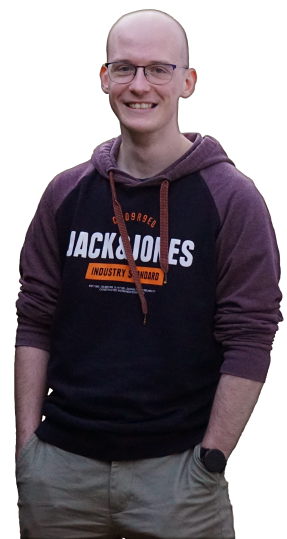
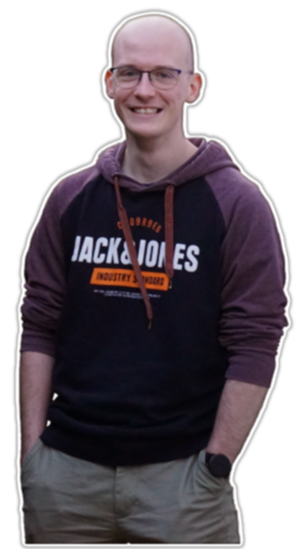
updates

diff --git a/src/assets/icons/icons.jsx b/src/assets/icons/icons.jsx
@@ -8,32 +8,32 @@ export const heroLogoIcon = <svg width="18" height="18" viewBox="0 0 18 18" fill
 </svg>;
 
 export const heroLineIcon = <svg width="2" height="15" viewBox="0 0 2 15" fill="none" xmlns="http://www.w3.org/2000/svg">
-    <rect x="1" width="15" height="1" rx="1" transform="rotate(90 2 0)" fill="#393939" />
+    <rect x="1" width="15" height="1" rx="1" transform="rotate(90 2 0)" fill="#FFFFFF" />
 </svg>;
 export const hoverIcon = <svg width="22" height="20" viewBox="0 0 22 20" fill="none" xmlns="http://www.w3.org/2000/svg">
     <path d="M2.75 0C2.02065 0 1.32118 0.292657 0.805456 0.81359C0.289731 1.33452 0 2.04106 0 2.77777V12.7777C0 13.5144 0.289731 14.221 0.805456 14.7419C1.32118 15.2628 2.02065 15.5555 2.75 15.5555H7.7V7.49998C7.70003 7.14065 7.79863 6.78835 7.98486 6.48219C8.17109 6.17603 8.43767 5.92799 8.755 5.76559C9.07234 5.60319 9.42801 5.53279 9.78256 5.5622C10.1371 5.59161 10.4766 5.71968 10.7635 5.9322L19.0135 14.2655C19.426 14.5711 19.69 15.02 19.7725 15.5055C20.3996 15.3829 20.965 15.0436 21.3714 14.5459C21.7779 14.0481 22.0001 13.423 22 12.7777V2.77777C22 2.04106 21.7103 1.33452 21.1945 0.81359C20.6788 0.292657 19.9793 0 19.25 0H2.75ZM10.208 6.91109C10.0926 6.79469 9.94569 6.71544 9.78575 6.68335C9.62581 6.65126 9.46004 6.66776 9.30938 6.73077C9.15872 6.79378 9.02993 6.90048 8.93927 7.03739C8.84861 7.17429 8.80014 7.33527 8.8 7.49998V19.1666C8.79999 19.3444 8.8563 19.5176 8.96069 19.6608C9.06509 19.804 9.2121 19.9097 9.38024 19.9625C9.54837 20.0152 9.7288 20.0123 9.89515 19.9541C10.0615 19.8958 10.205 19.7854 10.3048 19.6388L13.0185 15.6522L17.7045 16.6488C17.8784 16.6858 18.0595 16.665 18.2208 16.5896C18.3821 16.5142 18.515 16.3882 18.5997 16.2304C18.6844 16.0726 18.7163 15.8913 18.6908 15.7137C18.6653 15.536 18.5836 15.3714 18.458 15.2444L10.208 6.91109Z" fill="#373737" />
 </svg>;
 
 export const heroHeadsetIcon = <svg width="21" height="20" viewBox="0 0 21 20" fill="none" xmlns="http://www.w3.org/2000/svg">
-    <path d="M7 20H2.33333C1.69167 20 1.14217 19.7826 0.684833 19.3478C0.228278 18.9122 0 18.3889 0 17.7778V10C0 8.61111 0.276889 7.31 0.830667 6.09667C1.38522 4.88407 2.13422 3.82852 3.07767 2.93C4.02033 2.03222 5.12867 1.31926 6.40267 0.791111C7.67589 0.263704 9.04167 0 10.5 0C11.9583 0 13.3245 0.263704 14.5985 0.791111C15.8717 1.31926 16.9801 2.03222 17.9235 2.93C18.8662 3.82852 19.6148 4.88407 20.1693 6.09667C20.7231 7.31 21 8.61111 21 10V17.7778C21 18.3889 20.7717 18.9122 20.3152 19.3478C19.8578 19.7826 19.3083 20 18.6667 20H14V11.1111H18.6667V10C18.6667 7.83333 17.8741 5.99519 16.289 4.48556C14.7047 2.97667 12.775 2.22222 10.5 2.22222C8.225 2.22222 6.29533 2.97667 4.711 4.48556C3.12589 5.99519 2.33333 7.83333 2.33333 10V11.1111H7V20Z" fill="#363636" />
+    <path d="M7 20H2.33333C1.69167 20 1.14217 19.7826 0.684833 19.3478C0.228278 18.9122 0 18.3889 0 17.7778V10C0 8.61111 0.276889 7.31 0.830667 6.09667C1.38522 4.88407 2.13422 3.82852 3.07767 2.93C4.02033 2.03222 5.12867 1.31926 6.40267 0.791111C7.67589 0.263704 9.04167 0 10.5 0C11.9583 0 13.3245 0.263704 14.5985 0.791111C15.8717 1.31926 16.9801 2.03222 17.9235 2.93C18.8662 3.82852 19.6148 4.88407 20.1693 6.09667C20.7231 7.31 21 8.61111 21 10V17.7778C21 18.3889 20.7717 18.9122 20.3152 19.3478C19.8578 19.7826 19.3083 20 18.6667 20H14V11.1111H18.6667V10C18.6667 7.83333 17.8741 5.99519 16.289 4.48556C14.7047 2.97667 12.775 2.22222 10.5 2.22222C8.225 2.22222 6.29533 2.97667 4.711 4.48556C3.12589 5.99519 2.33333 7.83333 2.33333 10V11.1111H7V20Z" fill="#FFFFFF" />
 </svg>;
 export const heroLaptopIcon = <svg width="26" height="17" viewBox="0 0 26 17" fill="none" xmlns="http://www.w3.org/2000/svg">
-    <path d="M0 17V15H2.16667V0H23.8333V15H26V17H0ZM10.8333 15H15.1667V14H10.8333V15ZM4.33333 12H21.6667V2H4.33333V12Z" fill="#363636" />
+    <path d="M0 17V15H2.16667V0H23.8333V15H26V17H0ZM10.8333 15H15.1667V14H10.8333V15ZM4.33333 12H21.6667V2H4.33333V12Z" fill="#FFFFFF" />
 </svg>;
 
 export const heroCodeIcon = <svg width="21" height="17" viewBox="0 0 21 17" fill="none" xmlns="http://www.w3.org/2000/svg">
-    <path d="M6.79583 8.5L8.51667 7.10694C8.75 6.91806 8.86667 6.69768 8.86667 6.44583C8.86667 6.19398 8.75 5.97361 8.51667 5.78472C8.28333 5.59583 8.00644 5.50139 7.686 5.50139C7.36478 5.50139 7.0875 5.59583 6.85417 5.78472L4.31667 7.83889C4.2 7.93333 4.11756 8.03565 4.06933 8.14583C4.02033 8.25602 3.99583 8.37407 3.99583 8.5C3.99583 8.62593 4.02033 8.74398 4.06933 8.85417C4.11756 8.96435 4.2 9.06667 4.31667 9.16111L6.85417 11.2153C7.0875 11.4042 7.36478 11.4986 7.686 11.4986C8.00644 11.4986 8.28333 11.4042 8.51667 11.2153C8.75 11.0264 8.86667 10.806 8.86667 10.5542C8.86667 10.3023 8.75 10.0819 8.51667 9.89306L6.79583 8.5ZM14.2042 8.5L12.4833 9.89306C12.25 10.0819 12.1333 10.3023 12.1333 10.5542C12.1333 10.806 12.25 11.0264 12.4833 11.2153C12.7167 11.4042 12.9939 11.4986 13.3152 11.4986C13.6356 11.4986 13.9125 11.4042 14.1458 11.2153L16.6833 9.16111C16.8 9.06667 16.8824 8.96435 16.9307 8.85417C16.9797 8.74398 17.0042 8.62593 17.0042 8.5C17.0042 8.37407 16.9797 8.25602 16.9307 8.14583C16.8824 8.03565 16.8 7.93333 16.6833 7.83889L14.1458 5.78472C14.0292 5.69028 13.8981 5.61944 13.7527 5.57222C13.6064 5.525 13.4606 5.50139 13.3152 5.50139C13.1689 5.50139 13.0231 5.525 12.8777 5.57222C12.7314 5.61944 12.6 5.69028 12.4833 5.78472C12.25 5.97361 12.1333 6.19398 12.1333 6.44583C12.1333 6.69768 12.25 6.91806 12.4833 7.10694L14.2042 8.5ZM2.33333 17C1.69167 17 1.14217 16.8152 0.684833 16.4456C0.228278 16.0754 0 15.6306 0 15.1111V1.88889C0 1.36944 0.228278 0.924611 0.684833 0.554389C1.14217 0.184796 1.69167 0 2.33333 0H18.6667C19.3083 0 19.8578 0.184796 20.3152 0.554389C20.7717 0.924611 21 1.36944 21 1.88889V15.1111C21 15.6306 20.7717 16.0754 20.3152 16.4456C19.8578 16.8152 19.3083 17 18.6667 17H2.33333ZM2.33333 15.1111H18.6667V1.88889H2.33333V15.1111Z" fill="#363636" />
+    <path d="M6.79583 8.5L8.51667 7.10694C8.75 6.91806 8.86667 6.69768 8.86667 6.44583C8.86667 6.19398 8.75 5.97361 8.51667 5.78472C8.28333 5.59583 8.00644 5.50139 7.686 5.50139C7.36478 5.50139 7.0875 5.59583 6.85417 5.78472L4.31667 7.83889C4.2 7.93333 4.11756 8.03565 4.06933 8.14583C4.02033 8.25602 3.99583 8.37407 3.99583 8.5C3.99583 8.62593 4.02033 8.74398 4.06933 8.85417C4.11756 8.96435 4.2 9.06667 4.31667 9.16111L6.85417 11.2153C7.0875 11.4042 7.36478 11.4986 7.686 11.4986C8.00644 11.4986 8.28333 11.4042 8.51667 11.2153C8.75 11.0264 8.86667 10.806 8.86667 10.5542C8.86667 10.3023 8.75 10.0819 8.51667 9.89306L6.79583 8.5ZM14.2042 8.5L12.4833 9.89306C12.25 10.0819 12.1333 10.3023 12.1333 10.5542C12.1333 10.806 12.25 11.0264 12.4833 11.2153C12.7167 11.4042 12.9939 11.4986 13.3152 11.4986C13.6356 11.4986 13.9125 11.4042 14.1458 11.2153L16.6833 9.16111C16.8 9.06667 16.8824 8.96435 16.9307 8.85417C16.9797 8.74398 17.0042 8.62593 17.0042 8.5C17.0042 8.37407 16.9797 8.25602 16.9307 8.14583C16.8824 8.03565 16.8 7.93333 16.6833 7.83889L14.1458 5.78472C14.0292 5.69028 13.8981 5.61944 13.7527 5.57222C13.6064 5.525 13.4606 5.50139 13.3152 5.50139C13.1689 5.50139 13.0231 5.525 12.8777 5.57222C12.7314 5.61944 12.6 5.69028 12.4833 5.78472C12.25 5.97361 12.1333 6.19398 12.1333 6.44583C12.1333 6.69768 12.25 6.91806 12.4833 7.10694L14.2042 8.5ZM2.33333 17C1.69167 17 1.14217 16.8152 0.684833 16.4456C0.228278 16.0754 0 15.6306 0 15.1111V1.88889C0 1.36944 0.228278 0.924611 0.684833 0.554389C1.14217 0.184796 1.69167 0 2.33333 0H18.6667C19.3083 0 19.8578 0.184796 20.3152 0.554389C20.7717 0.924611 21 1.36944 21 1.88889V15.1111C21 15.6306 20.7717 16.0754 20.3152 16.4456C19.8578 16.8152 19.3083 17 18.6667 17H2.33333ZM2.33333 15.1111H18.6667V1.88889H2.33333V15.1111Z" fill="#FFFFFF" />
 </svg>;
 
 export const heroWeightIcon = <svg width="22" height="11" viewBox="0 0 22 11" fill="none" xmlns="http://www.w3.org/2000/svg">
-    <path d="M22 4.71429V6.28571H20.4286V9.42857H18.8571V11H16.5V6.28571H5.5V11H3.14286V9.42857H1.57143V6.28571H0V4.71429H1.57143V1.57143H3.14286V0H5.5V4.71429H16.5V0H18.8571V1.57143H20.4286V4.71429H22Z" fill="#363636" />
+    <path d="M22 4.71429V6.28571H20.4286V9.42857H18.8571V11H16.5V6.28571H5.5V11H3.14286V9.42857H1.57143V6.28571H0V4.71429H1.57143V1.57143H3.14286V0H5.5V4.71429H16.5V0H18.8571V1.57143H20.4286V4.71429H22Z" fill="#FFFFFF" />
 </svg>;
 
 export const heroGamingIcon = <svg width="19" height="25" viewBox="0 0 19 25" fill="none" xmlns="http://www.w3.org/2000/svg">
-    <path d="M15.95 1H2.15C1.51487 1 1 1.51487 1 2.15V22.85C1 23.4851 1.51487 24 2.15 24H15.95C16.5851 24 17.1 23.4851 17.1 22.85V2.15C17.1 1.51487 16.5851 1 15.95 1Z" stroke="#363636" strokeWidth="2" />
-    <path d="M4.44995 17.0996H9.04995M6.74995 19.3996V14.7996M4.44995 5.59961H13.65V11.3496H4.44995V5.59961Z" stroke="#363636" strokeWidth="2" strokeLinecap="round" strokeLinejoin="round" />
-    <path d="M13.075 18.8248C13.075 18.1897 12.5602 17.6748 11.925 17.6748C11.2899 17.6748 10.775 18.1897 10.775 18.8248C10.775 19.4599 11.2899 19.9748 11.925 19.9748C12.5602 19.9748 13.075 19.4599 13.075 18.8248Z" fill="#363636" />
-    <path d="M14.8 14.8004C14.8 14.1653 14.2851 13.6504 13.65 13.6504C13.0149 13.6504 12.5 14.1653 12.5 14.8004C12.5 15.4355 13.0149 15.9504 13.65 15.9504C14.2851 15.9504 14.8 15.4355 14.8 14.8004Z" fill="#363636" />
+    <path d="M15.95 1H2.15C1.51487 1 1 1.51487 1 2.15V22.85C1 23.4851 1.51487 24 2.15 24H15.95C16.5851 24 17.1 23.4851 17.1 22.85V2.15C17.1 1.51487 16.5851 1 15.95 1Z" stroke="#FFFFFF" strokeWidth="2" />
+    <path d="M4.44995 17.0996H9.04995M6.74995 19.3996V14.7996M4.44995 5.59961H13.65V11.3496H4.44995V5.59961Z" stroke="#FFFFFF" strokeWidth="2" strokeLinecap="round" strokeLinejoin="round" />
+    <path d="M13.075 18.8248C13.075 18.1897 12.5602 17.6748 11.925 17.6748C11.2899 17.6748 10.775 18.1897 10.775 18.8248C10.775 19.4599 11.2899 19.9748 11.925 19.9748C12.5602 19.9748 13.075 19.4599 13.075 18.8248Z" fill="#FFFFFF" />
+    <path d="M14.8 14.8004C14.8 14.1653 14.2851 13.6504 13.65 13.6504C13.0149 13.6504 12.5 14.1653 12.5 14.8004C12.5 15.4355 13.0149 15.9504 13.65 15.9504C14.2851 15.9504 14.8 15.4355 14.8 14.8004Z" fill="#FFFFFF" />
 </svg>;
 
 export const logoIcon = <svg width="14" height="14" viewBox="0 0 14 14" fill="none" xmlns="http://www.w3.org/2000/svg">

diff --git a/src/components/layouts/sections/home-hero.tsx b/src/components/layouts/sections/home-hero.tsx
@@ -81,15 +81,19 @@ export default function HomeHeroSection(props: HomeSectionProps) {
                 </Fade>
                 <Fade duration={appStore.fadeConditional(600)} delay={appStore.fadeConditional(900)} direction='right' triggerOnce>
                     <div className='flex items-end relative h-full max-lg:hidden'>
-                        <div className="absolute left-[-120px] z-10 max-[1280px]:left-[-60px]">
+                        <span
+                            style={{ background: "radial-gradient(50% 50% at 50% 50%, rgba(255, 255, 255, 0.5) 0%, rgba(255, 255, 255, 0) 100%)" }}
+                            className="absolute bottom-2 left-[-130px] max-[1280px]:left-[-60px] w-[130%] h-3/4 rotate-[20deg]"
+                        />
+                        <div className="absolute left-[-120px] bottom-[-10px] max-[1280px]:left-[-60px]">
                             <Image alt="lars-walraevens-picture" quality={100} src={picture} />
                         </div>
                         <div id="hero-image-bg" className="relative max-[1280px]:opacity-0">
-                            <div className='absolute right-[20px] bottom-[51.2%] flex flex-col items-center '>
+                            <div className='absolute z-10 right-2 bottom-[40%] flex flex-col items-center '>
                                 <Fade duration={appStore.fadeConditional(500)} delay={appStore.fadeConditional(1700)} triggerOnce>
                                     <div className="flex items-center justify-center flex-col">
                                         {/* <span className='mb-2 '>{heroLogoIcon}</span> */}
-                                        <span className='flex uppercase flex-row items-center text-black-100'>
+                                        <span className='flex uppercase flex-row items-center text-white-100'>
                                             <span style={{ writingMode: 'vertical-rl' }} className="font-secondary text-sm">Hover</span>
                                         </span>
                                         <span className='mb-[10px] mt-[10px] opacity-40'>{heroLineIcon}</span>
@@ -126,7 +130,7 @@ export default function HomeHeroSection(props: HomeSectionProps) {
                                     </HeroTooltip>
                                 </Bounce>
                             </div>
-                            <div className="max-[1280px]:opacity-0">
+                            <div className="opacity-0">
                                 {heroPictureBg}
                             </div>
                         </div>

diff --git a/src/components/layouts/project/project-teaser.tsx b/src/components/layouts/project/project-teaser.tsx
@@ -28,12 +28,12 @@ export default function ProjectTeaser(props: ProjectTeaserProps) {
                 onClick={() => appStore.setDisabledFade(true)}
                 className="relative group 
                 w-full max-lg:w-full overflow-hidden h-[430px] max-lg:h-[300px] mb-5 max-lg:mb-4 border-[3px] border-white-200 rounded-md  cursor-pointer hover:border-blue-400">
-                <div className="absolute z-10 flex flex-col bg-black-300 px-3 py-2 border-2 border-black-200 min-w-[250px] rounded
-             top-4 right-4 max-lg:right-2 max-lg:bottom-2 max-lg:top-[unset] opacity-[82%] hover:!opacity-100">
-                    <h4 className="text-[1.1rem] font-secondary font-normal flex items-center relative">
+                <div className="absolute z-10 flex flex-col bg-black-300 px-3 py-2 min-w-[250px] rounded
+             top-4 right-4 max-lg:right-2 max-lg:bottom-2 max-lg:top-[unset] opacity-[72%] group-hover:!opacity-90">
+                    <h4 className="font-secondary font-normal flex items-center relative">
                         {/* <span className="mr-2">{logoIcon}</span> */}
-                        <span className="relative font-semibold !opacity-1">
-                            <span className="absolute bottom-[13%] left-[2%] !skew-x-[45deg] z-[-1] w-0 h-2 bg-[#4e4e4e] transition-all group-hover:w-full !opacity-1" />
+                        <span className="relative text-[1.2rem] font-semibold !opacity-1">
+                            <span className="absolute bottom-[13%] left-[2%] !skew-x-[45deg] z-[-1] w-0 h-2 bg-blue-400/80 transition-all group-hover:w-full !opacity-1" />
                             {projectData.name}
                         </span>
                     </h4>

diff --git a/src/components/layouts/sections/about-sections/other-section.tsx b/src/components/layouts/sections/about-sections/other-section.tsx
@@ -1,6 +1,5 @@
 import useTranslation from "next-translate/useTranslation";
 import { AboutComponentSectionProps } from "./skills-section";
-import { Bounce, Fade, Slide } from "react-awesome-reveal";
 
 export default function OtherSection(props: AboutComponentSectionProps) {
     // # UTILS
@@ -11,11 +10,10 @@ export default function OtherSection(props: AboutComponentSectionProps) {
             <div className="mb-6">
                 <p className="text-grey-100" dangerouslySetInnerHTML={{ __html: t("section_about_other_description1") }}></p>
                 <ul className="list-disc ml-4 my-3 text-grey-100">
-                    <li>Zustand (state manager)</li>
-                    <li>react-query (server state manager)</li>
-                    <li>Ant design (UI library)</li>
-                    <li>react-toastify (alerts)</li>
-                    <li>Immer (tool)</li>
+                    <li>Zustand / Jotai (state managers)</li>
+                    <li>react-query</li>
+                    <li>shadcn/ui</li>
+                    <li>Ant design</li>
                 </ul>
             </div>
             <div className="btn inline-block" onClick={() => props.goNext()}>{t("main_next")}</div>

diff --git a/src/components/layouts/header/header.tsx b/src/components/layouts/header/header.tsx
@@ -17,7 +17,7 @@ export default function Header() {
     // # UTILS
     const { t, lang } = useTranslation('common');
     const navMobileClasses = `py-3 mb-4 w-full border-grey-500 border-y border-opacity-50 bg-black-200 bg-opacity-50 h-full relative`;
-    const UnderlineMenuEffect = () => <span className="absolute bottom-[13%] left-[2%] !skew-x-[45deg] z-[-1] w-0 h-2 bg-[#4e4e4e] transition-all group-hover:w-full " />;
+    const UnderlineMenuEffect = () => <span className="absolute bottom-[13%] left-[2%] !skew-x-[45deg] z-[-1] w-0 h-2 bg-[#6a6a6a] transition-all group-hover:w-full " />;
 
     const router = useRouter();
     const { locale } = router;

diff --git a/src/components/layouts/sections/about-sections/skills-section.tsx b/src/components/layouts/sections/about-sections/skills-section.tsx
@@ -12,7 +12,7 @@ export default function SkillsSection(props: AboutComponentSectionProps) {
 
     return <>
         <div id="skills">
-            <p className="text-grey-100">{t("section_about_skills_description")}</p>
+            <p className="text-grey-100" dangerouslySetInnerHTML={{ __html: t("section_about_skills_description") }}></p>
             <div className="mt-4 mb-6">
                 <SkillItem
                     title={t("main_development")}

diff --git a/src/styles/base.css b/src/styles/base.css
@@ -58,7 +58,6 @@ nav a {
 nav #nav-item {    
     z-index: 100;
     position: relative;
-    @apply hover:!text-white-200;    
 } 
 
 
